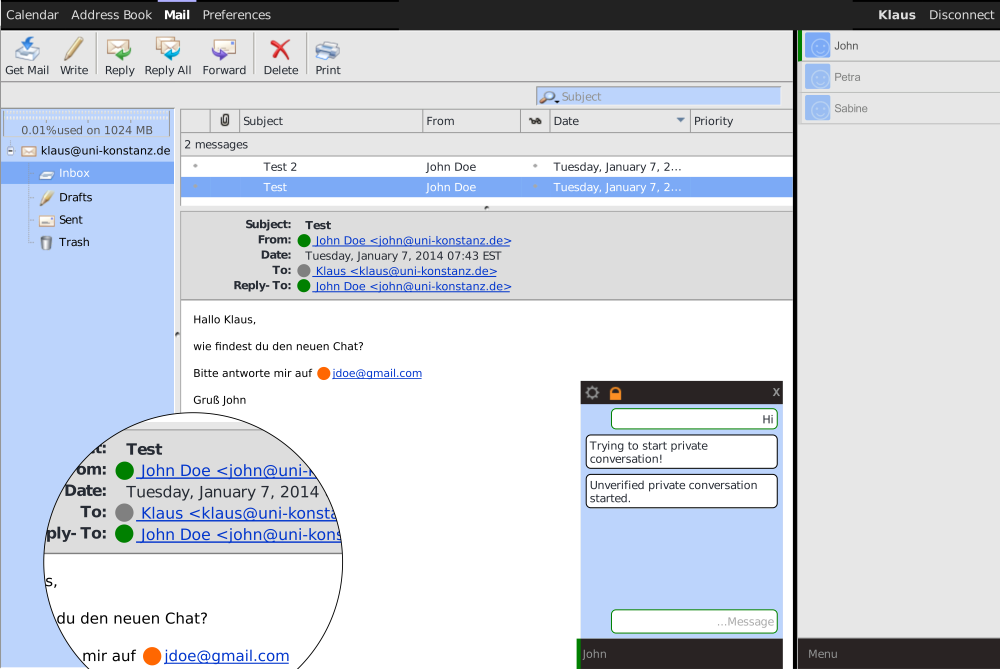
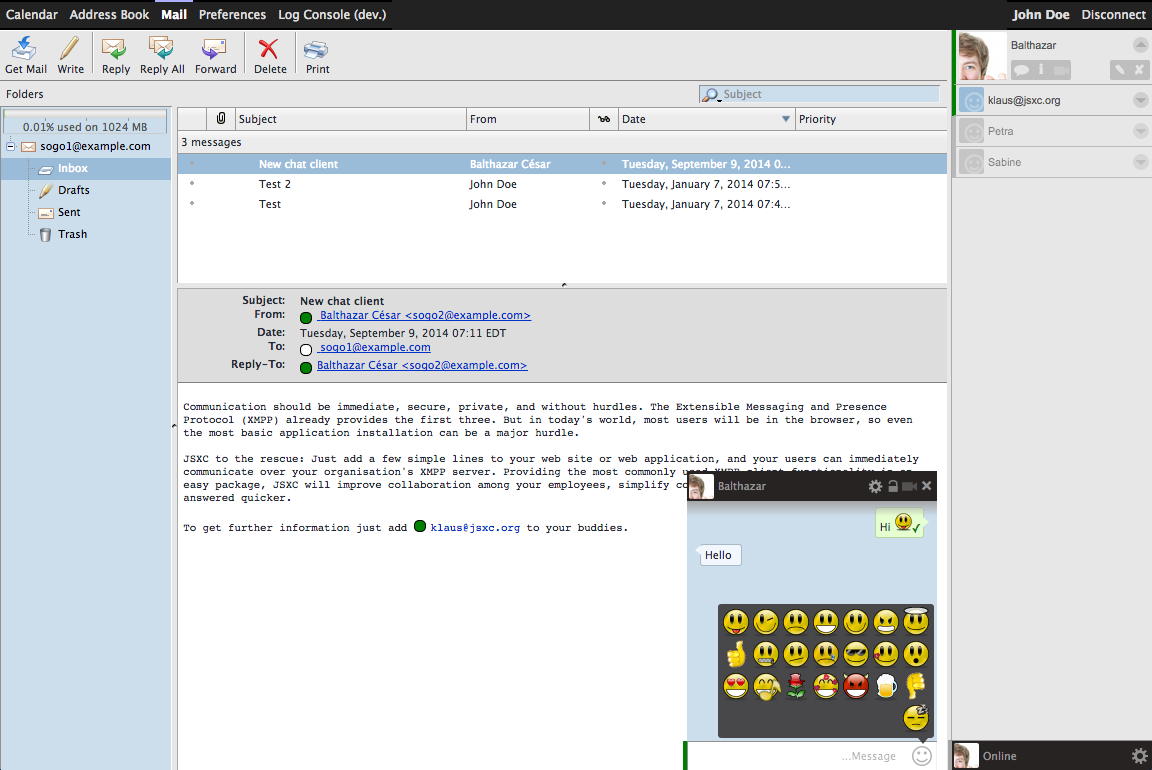
update screenshots
- update sogo and oc on startpage
- add feature screenshots on features

diff --git a/features.html b/features.html
@@ -2,7 +2,9 @@
 layout: default
 title: Features
 ---
-<a href="images/SOGo-screenshot.png"><img src="images/SOGo-screenshot-thumb.png" alt="Screenshot SOGo" align="right"></a>
+<a href="images/SOGo-screenshot.png" class="right"><img src="images/SOGo-screenshot-thumb.png" alt="Screenshot SOGo"></a>
+<div id="feature-gallery" class="right"></div>
+
 <h2>
     JSXC Feature List
 </h2>
@@ -59,3 +61,26 @@ title: Features
     <li>Audio/video conference</li>
     <li>Encrypted file transfer</li>
 </ul>
+
+<script>
+$(function(){
+   function pad (str, max) {
+      str = str.toString();
+      return str.length < max ? pad("0" + str, max) : str;
+   }
+   
+   var i, a, file;
+   
+   for (i = 0; i <= 10; i++) {
+      file = 'images/features/' + pad(i + '', 4) + '.png';
+      
+      a = $('<a>');
+      a.attr('href', file);
+      a.append('<img src="' + file + '" alt="feature' + i + '"/>');
+      
+      $('#feature-gallery').append(a);
+   }
+   
+   $('#feature-gallery a').colorbox({rel: 'gal'});
+});
+</script>

diff --git a/stylesheets/stylesheet.css b/stylesheets/stylesheet.css
@@ -546,3 +546,22 @@ a[href^="xmpp:"] {
 
 /* Mobile Portrait Size to Mobile Landscape Size (devices and browsers) */
 @media only screen and (max-width: 479px) {}
+
+.right {
+	float: right;
+}
+
+#feature-gallery {
+	width: 100px;
+   float: right;
+   clear: right;
+}
+
+#feature-gallery a {
+	float: right;
+}
+
+#feature-gallery img {
+	max-height: 80px;
+	max-width: 100px;
+}
